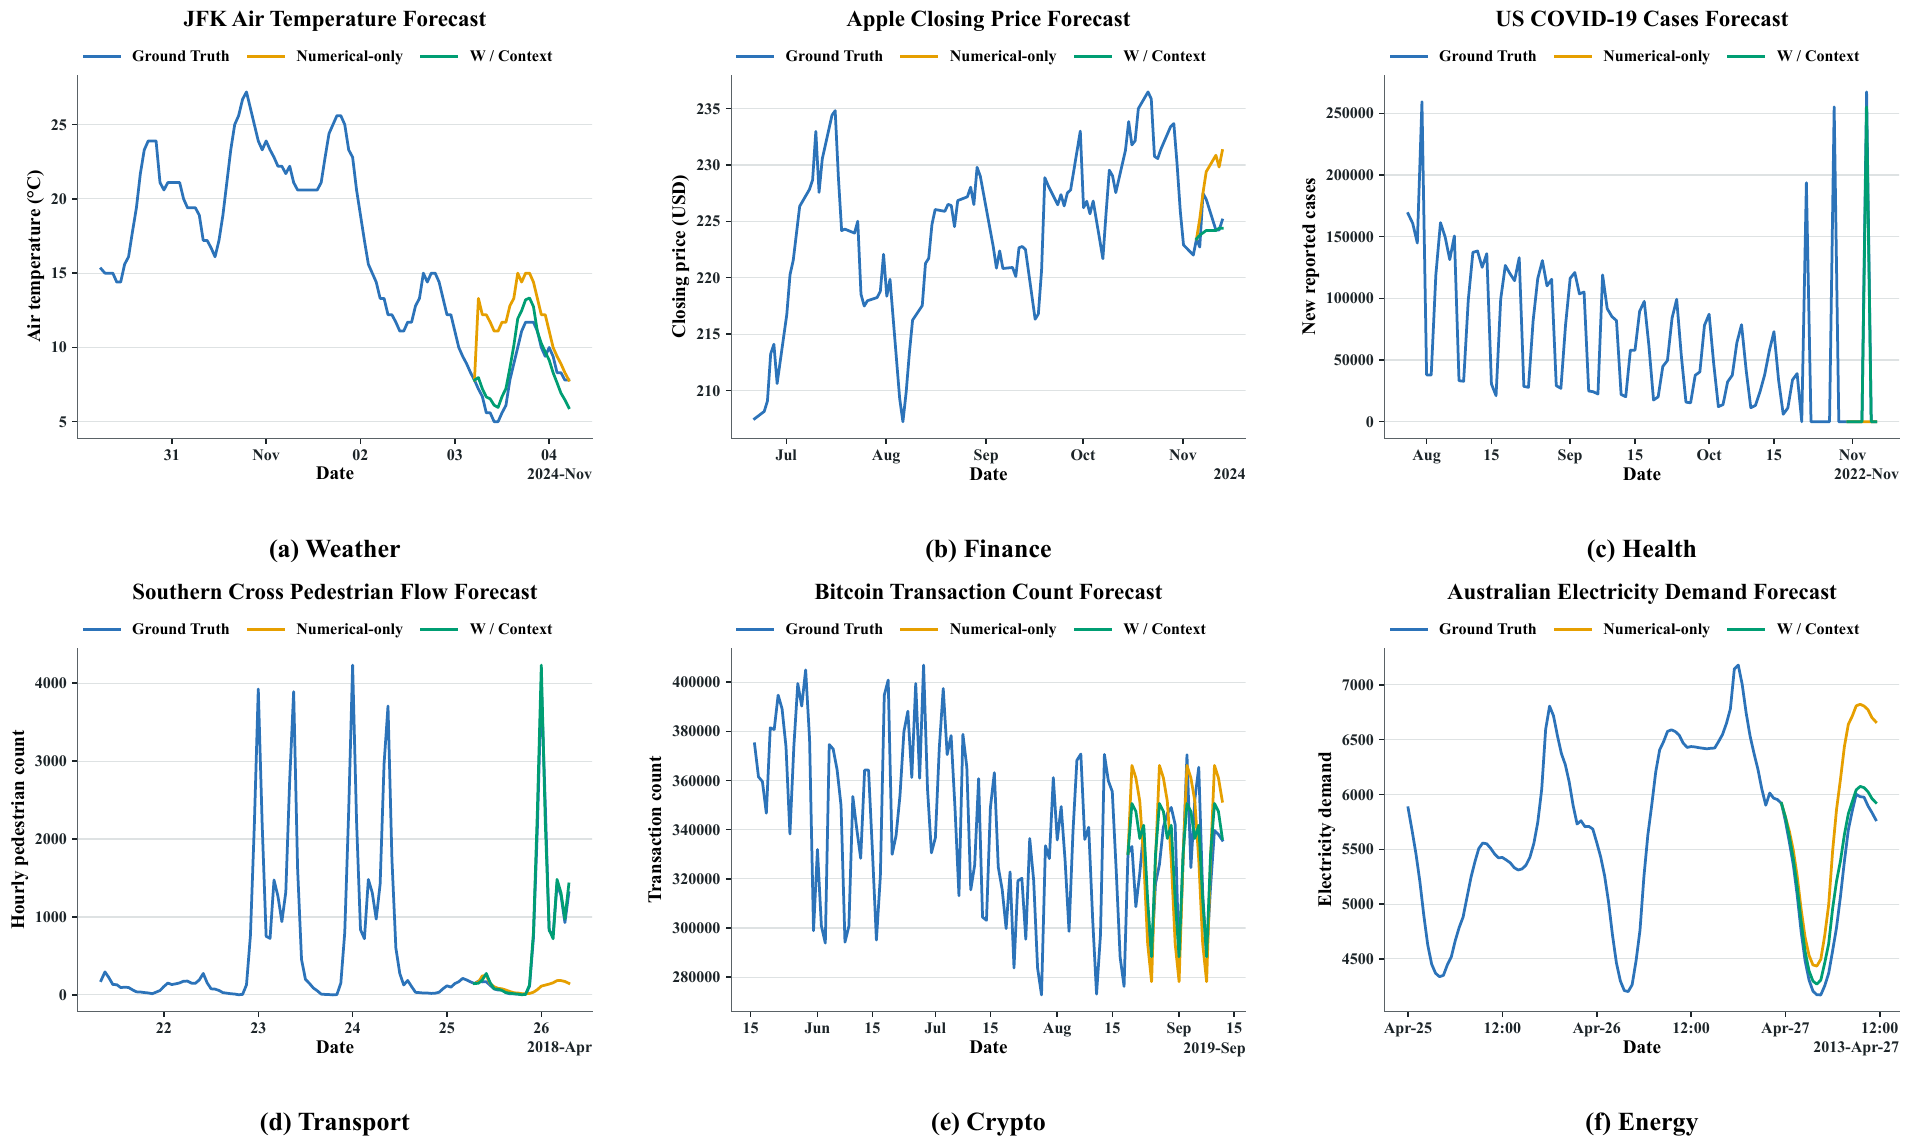
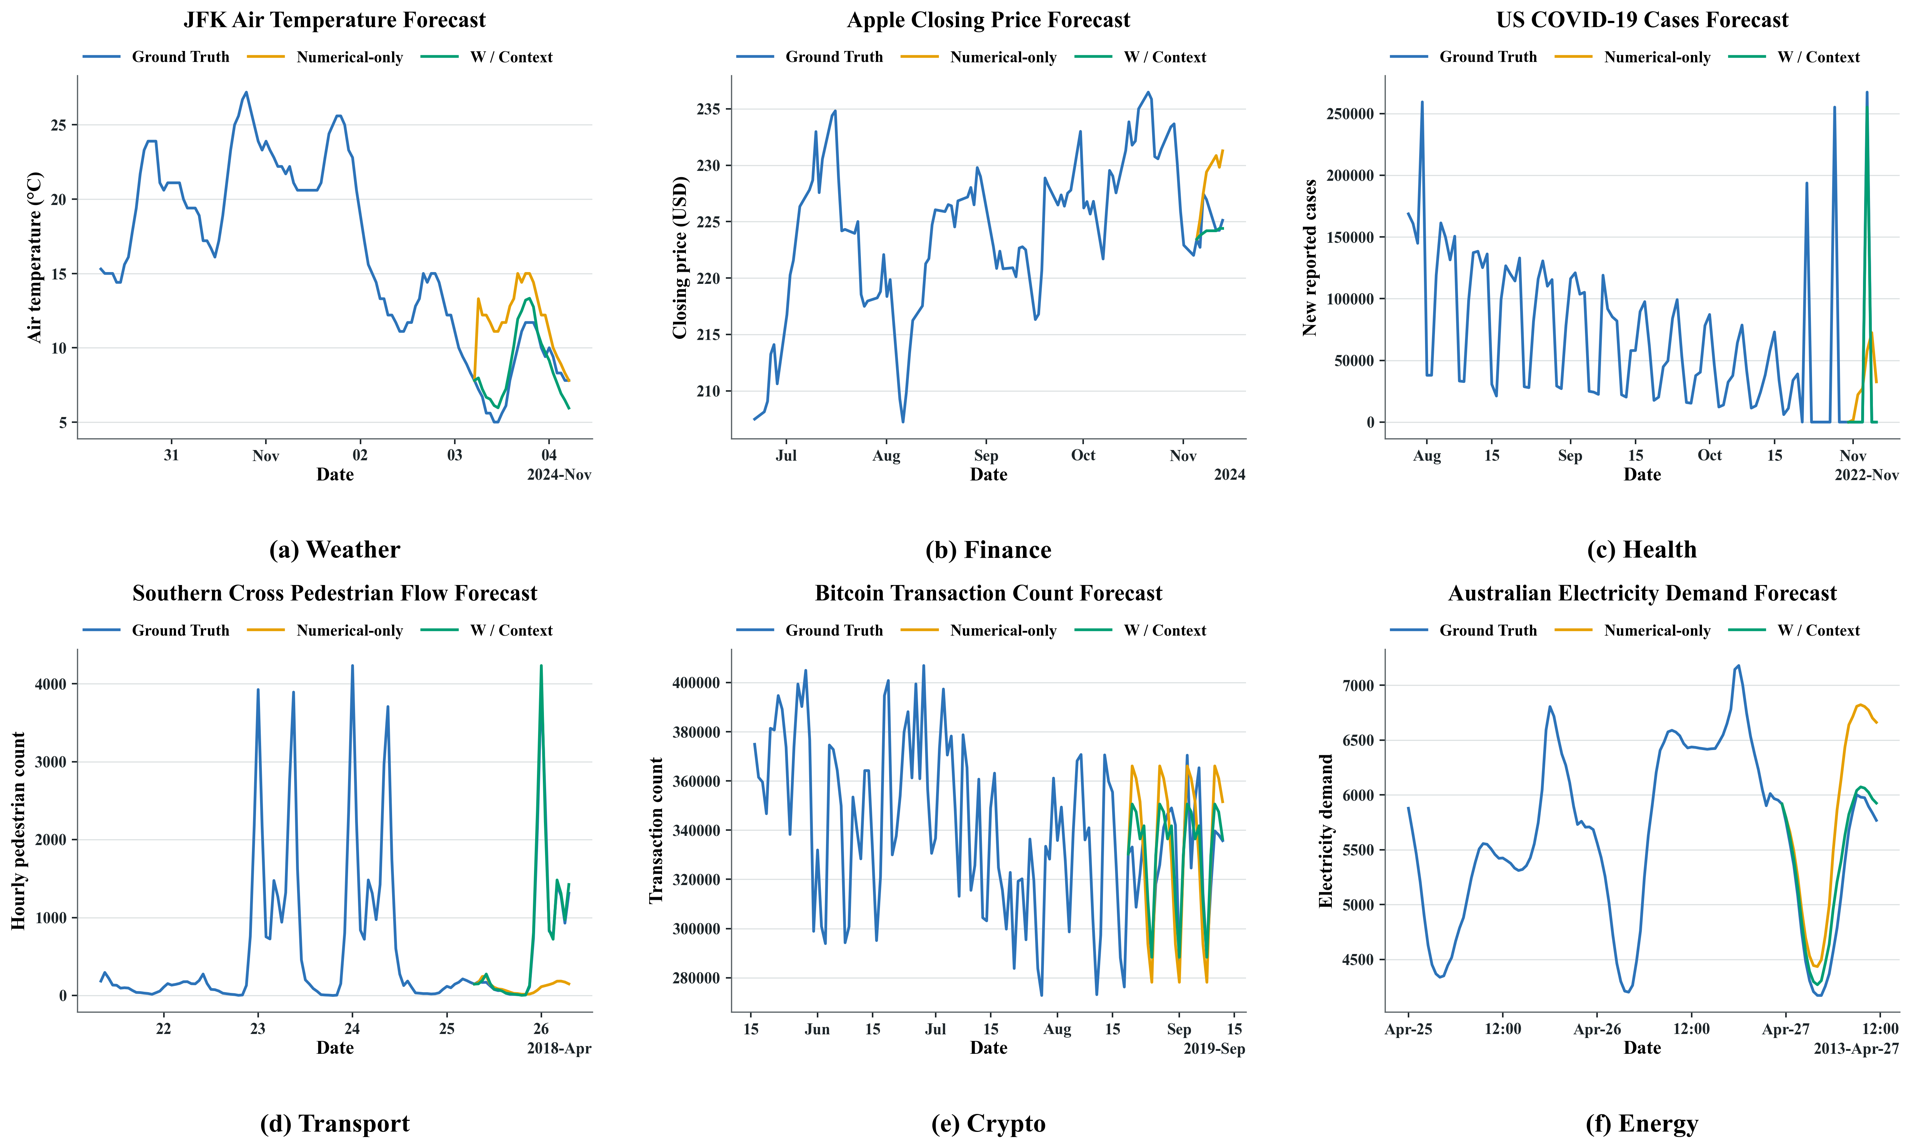
Update six-domain forecast case study

diff --git a/index.html b/index.html
@@ -1475,8 +1475,8 @@
                 </div>
               </div>
               <figure class="figure-shell case-study-figure forecast-case-figure">
-                <div class="figure-toolbar"><span class="figure-kicker">Forecast case study · six domains</span><a href="world2ts-assets/forecast-case-study.pdf" target="_blank" rel="noopener">Open vector PDF ↗</a></div>
-                <img class="figure-image" src="world2ts-assets/forecast-case-study-preview.png" width="1911" height="1148" loading="lazy" decoding="async" alt="Forecast comparison for weather, finance, health, transport, crypto, and energy time series">
+                <div class="figure-toolbar"><span class="figure-kicker">Forecast case study · six domains</span><a href="world2ts-assets/forecast-case-study.pdf?v=20260919-3" target="_blank" rel="noopener">Open vector PDF ↗</a></div>
+                <img class="figure-image" src="world2ts-assets/forecast-case-study-preview.png?v=20260919-3" width="1911" height="1148" loading="lazy" decoding="async" alt="Forecast comparison for weather, finance, health, transport, crypto, and energy time series">
                 <figcaption><strong>Forecast comparison.</strong> Blue shows the observed future values, orange the numerical-only forecast, and green the forecast with World2TS event descriptions. In every panel, the forecast begins immediately after the displayed history.</figcaption>
               </figure>
             </section>
